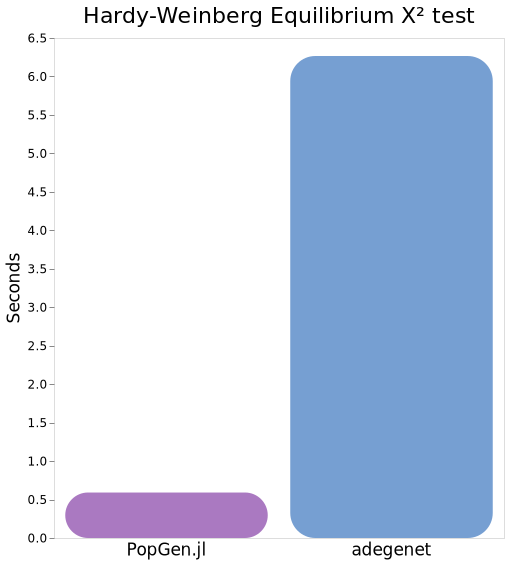
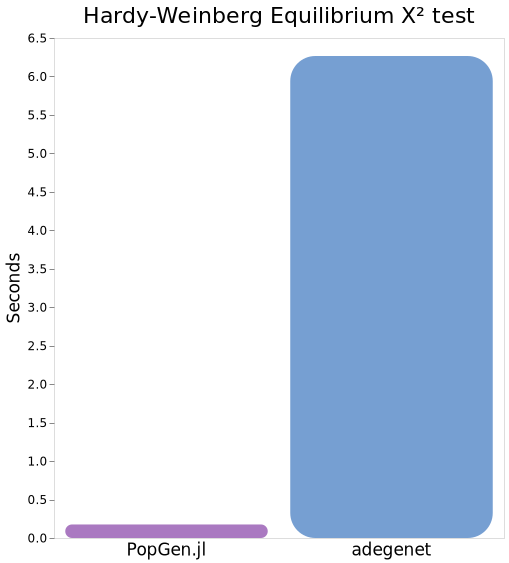
update plots

Changed region(s): [[0.1179, 0.8757, 0.5305, 0.9663]]

diff --git a/docs/getting_started/comparison.md b/docs/getting_started/comparison.md
@@ -18,7 +18,7 @@ So, we'd like to prove that Julia and PopGen.jl actually achieves that by showin
 
 ## Benchmarks
 
-To make this a practical comparison, we're going to use the `gulfsharks` data because it is considerably larger (212 samples x 2213 loci) than `nancycats` (237 x 9) and a bit more of a "stress test".  All benchmarks in R are performed using the `microbenchmark` package, and  `BenchmarkTools` are used for Julia. 
+To make this a practical comparison, we're going to use the `gulfsharks` data because it is considerably larger (212 samples x 2213 loci) than `nancycats` (237 x 9) and a bit more of a "stress test".  All benchmarks in R are performed using the `microbenchmark` package, and  `BenchmarkTools` are used for Julia.
 
 <Tabs
   block={true}
@@ -48,7 +48,7 @@ library(microbenchmark)
 </Tabs>
 
 
-As a note, the reported benchmarks are being performed on a 64-bit Manjaro Linux system on a nothing-special Lenovo Thinkbook 14S  with 8gigs of RAM and a 8th gen Intel i5 mobile processor. **Note:** all of the Julia benchmarks, unless explicitly stated, are performed single-threaded (i.e. not parallel, distributed, or GPU). 
+As a note, the reported benchmarks are being performed on a 64-bit Manjaro Linux system on a nothing-special Lenovo Thinkbook 14S  with 8gigs of RAM and a 8th gen Intel i5 mobile processor. **Note:** all of the Julia benchmarks, unless explicitly stated, are performed single-threaded (i.e. not parallel, distributed, or GPU).
 
 
 
@@ -68,7 +68,7 @@ Since `gulfsharks` is shamelessly provided in PopGen.jl, we will just load it wi
 
 ```
 @benchmark sharks = genepop("data/source/gulfsharks.gen", silent = true)
-BenchmarkTools.Trial: 
+BenchmarkTools.Trial:
   memory estimate:  330.58 MiB
   allocs estimate:  6905285
   --------------
@@ -138,7 +138,7 @@ julia> Base.summarysize(sharks)
 
 ![data structure plot](/PopGen.jl/img/objectplot.png)
 
-The original file is `3.2mb`, and our `PopData` object takes up ~`3.5mb` in memory (300kb larger than the source file) versus the ~`5.3mb` of a `genind`, which is ~1.5x larger than the source file. That's quite a big difference!
+The original file is `3.2mb` (the horizontal line), and our `PopData` object takes up ~`3.5mb` in memory (300kb larger than the source file) versus the ~`5.3mb` of a `genind`, which is ~1.5x larger than the source file. That's quite a big difference!
 
 ### Summary statistics
 The obvious hallmark of population genetics is heterozygosity values and F-statistics. Here we'll compare the basic summary statistics that can be produced using `hierfstat` and `PopGenjl`.
@@ -155,7 +155,7 @@ The obvious hallmark of population genetics is heterozygosity values and F-stati
 
 ```julia
 julia> @benchmark summary(sharks, by = "global")
-BenchmarkTools.Trial: 
+BenchmarkTools.Trial:
   memory estimate:  88.42 MiB
   allocs estimate:  1307128
   --------------
@@ -204,7 +204,7 @@ This is a classic population genetics test and a relatively simple one. The R be
 
 ```julia
 julia> @benchmark hwe_test(sharks)
-BenchmarkTools.Trial: 
+BenchmarkTools.Trial:
   memory estimate:  46.22 MiB
   allocs estimate:  1050525
   --------------
@@ -232,4 +232,4 @@ Unit: seconds
 
 ![chi squared plot](/PopGen.jl/img/chisqplot.png)
 
-Comparing averages, PopGen.jl clocks in at ~`176ms` versus adegenet's `6.3s`, so ~**35.8x** faster on these data(!) 
+Comparing averages, PopGen.jl clocks in at ~`176ms` versus adegenet's `6.3s`, so ~**35.8x** faster on these data(!)
